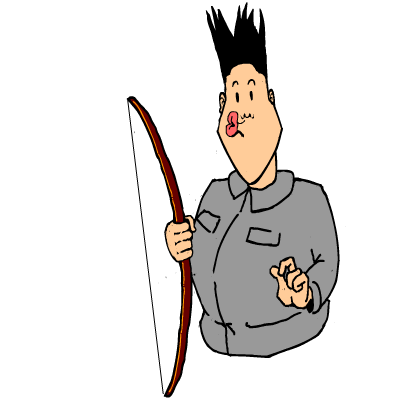
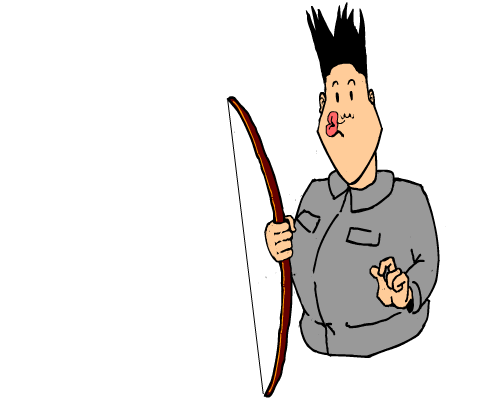
kim

Changed region(s): [[0.3, 0.0, 0.9, 1.0]]

diff --git a/front/src/Field.jsx b/front/src/Field.jsx
@@ -11,6 +11,16 @@ import kim7 from "./images/kimm/kimm0007.png";
 import kim8 from "./images/kimm/kimm0008.png";
 import kim9 from "./images/kimm/kimm0009.png";
 import kim10 from "./images/kimm/kimm0010.png";
+import kim11 from "./images/kimm/kimm0011.png";
+import kim12 from "./images/kimm/kimm0012.png";
+import kim13 from "./images/kimm/kimm0013.png";
+import kim14 from "./images/kimm/kimm0014.png";
+import kim15 from "./images/kimm/kimm0015.png";
+import kim16 from "./images/kimm/kimm0016.png";
+import kim17 from "./images/kimm/kimm0017.png";
+import kim18 from "./images/kimm/kimm0018.png";
+import kim19 from "./images/kimm/kimm0019.png";
+import kim20 from "./images/kimm/kimm0020.png";
 
 function Field() {
     const forest_horizon = 3500;
@@ -70,6 +80,14 @@ function Field() {
         } else {
             if (something_in_the_hands === 'arrow') {
                 setKim_control(6);
+            } else {
+                if (something_in_the_hands === 'grenade') {
+                    setKim_control(11);
+                } else {
+                    if (something_in_the_hands === 'atomic') {
+                        setKim_control(16);
+                    }
+                }
             }
         }
     }, [something_in_the_hands]);
@@ -153,9 +171,9 @@ function Field() {
 
         /**
          * В координатной сетке окошка "you" ставим торс.
-         * X: на 210 левее ноги, У: 565рх от нижнего края
+         * X: на 310 левее ноги, У: 565рх от нижнего края
          * */
-        torso_ref.current.style.left = (marker_right_bottom_x * 0.66 - 210) + 'px';
+        torso_ref.current.style.left = (marker_right_bottom_x * 0.66 - 310) + 'px';
         torso_ref.current.style.top = (marker_right_bottom_y - 565) + 'px';
 
         setPosition(pos);
@@ -196,6 +214,14 @@ function Field() {
             } else {
                 if (item_in_the_hands_ref.current === 'arrow') {
                     shift = 5;
+                } else {
+                    if (item_in_the_hands_ref.current === 'grenade') {
+                        shift = 10;
+                    } else {
+                        if (item_in_the_hands_ref.current === 'atomic') {
+                            shift = 15;
+                        }
+                    }
                 }
             }
             let time;
@@ -287,6 +313,16 @@ function Field() {
                     <img src={kim8} hidden={kim_control !== 8} alt={""}/>
                     <img src={kim9} hidden={kim_control !== 9} alt={""}/>
                     <img src={kim10} hidden={kim_control !== 10} alt={""}/>
+                    <img src={kim11} hidden={kim_control !== 11} alt={""}/>
+                    <img src={kim12} hidden={kim_control !== 12} alt={""}/>
+                    <img src={kim13} hidden={kim_control !== 13} alt={""}/>
+                    <img src={kim14} hidden={kim_control !== 14} alt={""}/>
+                    <img src={kim15} hidden={kim_control !== 15} alt={""}/>
+                    <img src={kim16} hidden={kim_control !== 16} alt={""}/>
+                    <img src={kim17} hidden={kim_control !== 17} alt={""}/>
+                    <img src={kim18} hidden={kim_control !== 18} alt={""}/>
+                    <img src={kim19} hidden={kim_control !== 19} alt={""}/>
+                    <img src={kim20} hidden={kim_control !== 20} alt={""}/>
                 </div>
             </div>
         </div>

diff --git a/front/src/Tool.jsx b/front/src/Tool.jsx
@@ -9,9 +9,11 @@ function Tool() {
     return (
         <div className="tool">
             <div className="atomic_num">1</div>
-            <div className="atomic"/>
+            <div className="atomic"
+                 onClick={() => setSomething_in_the_hands('atomic')}/>
             <div className="grenade_num">1</div>
-            <div className="grenade"/>
+            <div className="grenade"
+                 onClick={() => setSomething_in_the_hands('grenade')}/>
             <div className="arrow_num">2</div>
             <div className="arrow"
                  onClick={() => setSomething_in_the_hands('arrow')}/>

diff --git a/front/src/styles.css b/front/src/styles.css
@@ -151,8 +151,8 @@
     position: absolute;
     display: block;
     height: 400px;
-    width: 400px;
-    transform-origin: 260px 329px;
+    width: 500px;
+    transform-origin: 360px 329px;
 }
 
 .you_control {
@@ -263,6 +263,7 @@
 }
 
 .non {
+    margin-left: 20px;
     grid-area: non;
     background-image: url("./images/ico/ico_none.png");
     background-repeat: no-repeat;
